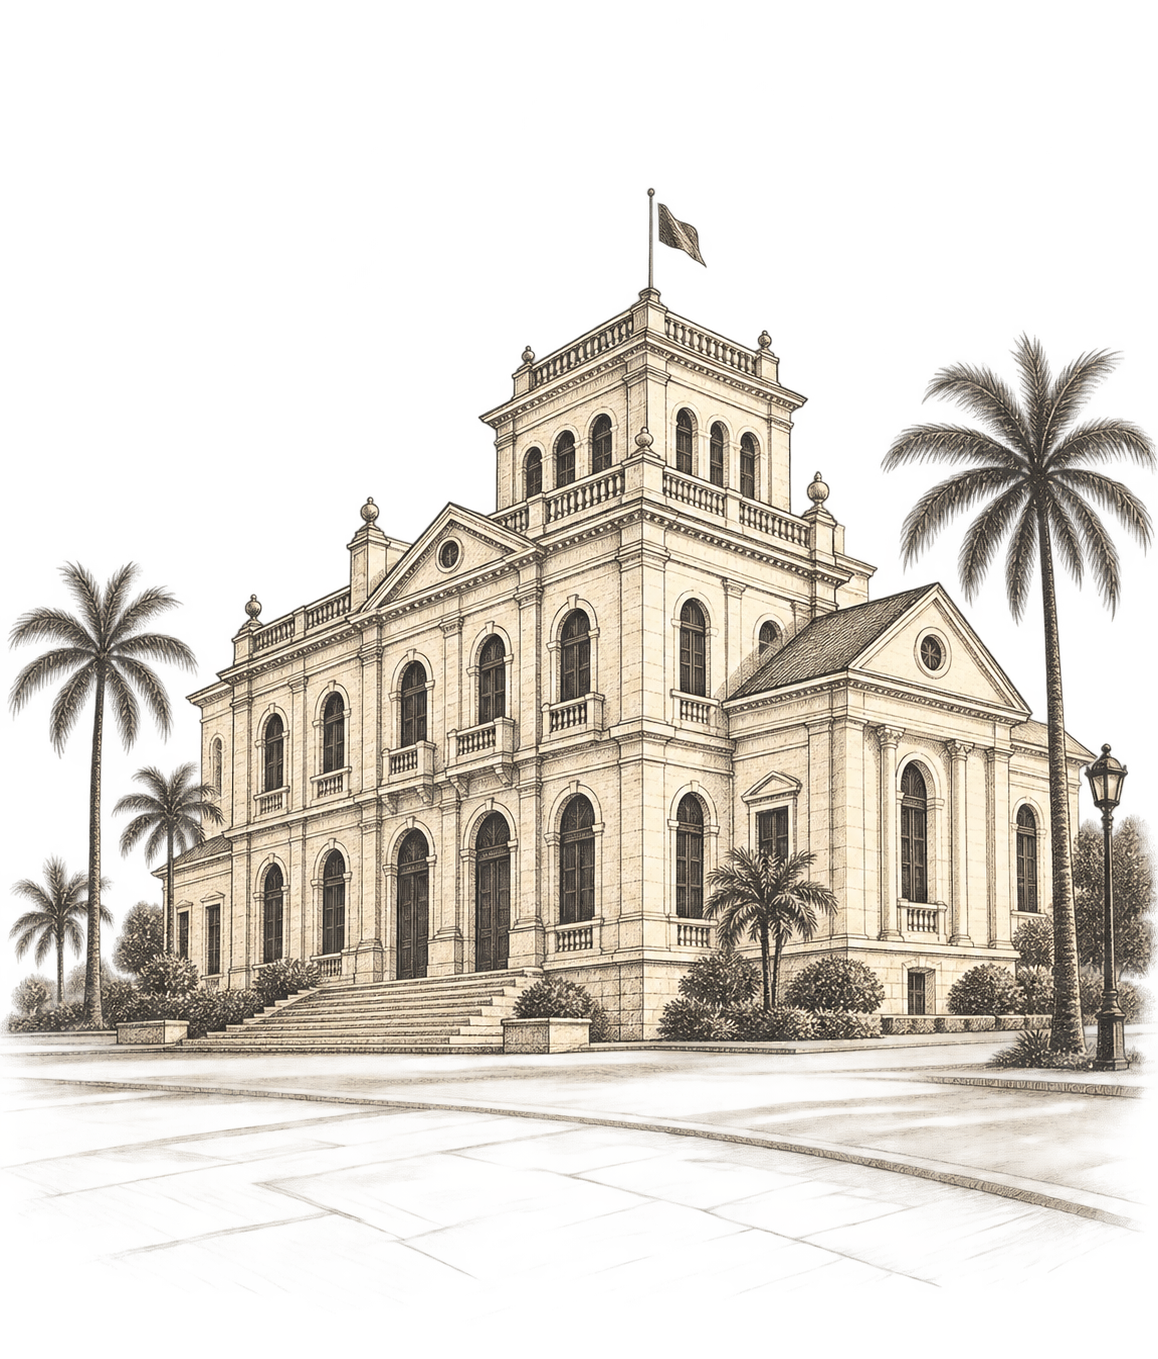
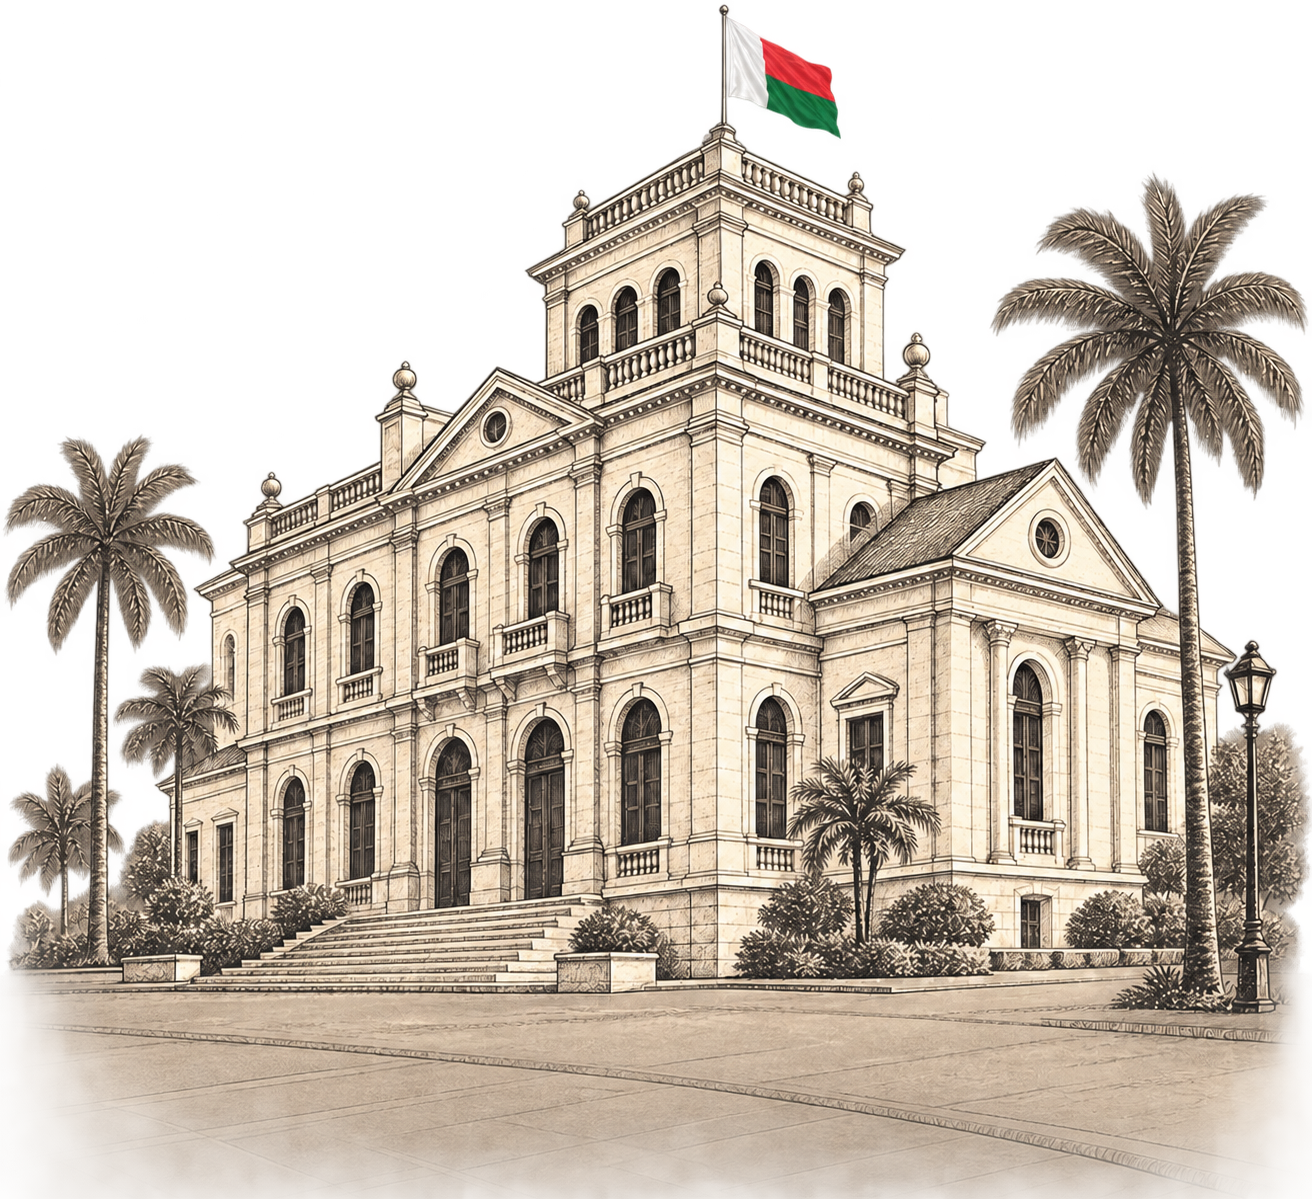
fix: corrections mineures — config, document service, pages
- Application.yml: ajustement de configuration
- DocumentService: corrections
- Login: améliorations i18n et design
- Dashboard/Taxpayers: ajustements mineurs
- Menu: image mise à jour

🤖 Generated with Codebuff

diff --git a/frontend/src/pages/Login.tsx b/frontend/src/pages/Login.tsx
@@ -126,25 +126,41 @@ export default function Login() {
             <h1 className="mt-2 text-2xl font-bold text-slate-900 dark:text-slate-100">{t('sidebar.brand')}</h1>
           </div>
 
-          {/* Language switcher on mobile */}
-          <div className="mb-6 flex justify-center gap-2 lg:hidden">
-            {languages.map((lang) => (
+          <div className="mb-6 flex justify-end lg:justify-between items-center gap-4">
+            <h2 className="text-2xl font-bold tracking-tight text-slate-900 dark:text-slate-100">{t('login.title')}</h2>
+            <div className="relative">
               <button
-                key={lang.code}
-                onClick={() => setLocale(lang.code)}
-                className={`flex items-center gap-2 rounded-xl px-4 py-2.5 text-sm font-medium transition ${
-                  locale === lang.code
-                    ? 'bg-brand-100 text-brand-700 shadow-sm ring-1 ring-brand-200 dark:bg-brand-900/30 dark:text-brand-400 dark:ring-brand-800'
-                    : 'text-slate-500 hover:bg-slate-100 dark:text-slate-400 dark:hover:bg-slate-700'
-                }`}
+                onClick={() => setLangOpen(!langOpen)}
+                className="flex items-center gap-1.5 rounded-xl px-3 py-2 text-sm font-medium text-slate-500 transition hover:bg-slate-100 hover:text-slate-800 dark:text-slate-400 dark:hover:bg-slate-700 dark:hover:text-slate-200"
+                aria-label={t('login.language')}
               >
-                <span className="text-xl leading-none">{lang.flag}</span>
-                <span>{lang.label}</span>
+                <Globe className="h-4 w-4" />
+                <span className="text-lg leading-none">{languages.find((l) => l.code === locale)?.flag}</span>
               </button>
-            ))}
+              {langOpen && (
+                <div className="absolute right-0 z-10 mt-2 w-48 animate-scale-in rounded-2xl border border-slate-200/80 bg-white shadow-popover dark:border-slate-700/50 dark:bg-slate-800">
+                  <div className="p-1.5">
+                    {languages.map((lang) => (
+                      <button
+                        key={lang.code}
+                        onClick={() => { setLocale(lang.code); setLangOpen(false) }}
+                        className={`flex w-full items-center gap-3 rounded-lg px-3 py-2.5 text-sm transition ${
+                          locale === lang.code
+                            ? 'bg-brand-50 font-semibold text-brand-700 dark:bg-brand-900/30 dark:text-brand-400'
+                            : 'text-slate-700 hover:bg-slate-100 dark:text-slate-300 dark:hover:bg-slate-700'
+                        }`}
+                      >
+                        <span className="text-xl leading-none">{lang.flag}</span>
+                        <span>{lang.label}</span>
+                        {locale === lang.code && <span className="ml-auto text-brand-500 dark:text-brand-400">✓</span>}
+                      </button>
+                    ))}
+                  </div>
+                </div>
+              )}
+            </div>
           </div>
 
-          <h2 className="text-2xl font-bold tracking-tight text-slate-900 dark:text-slate-100">{t('login.title')}</h2>
           <p className="mt-1 text-sm text-slate-500 dark:text-slate-400">{t('login.subtitle')}</p>
 
           <form onSubmit={handleSubmit(onSubmit)} className="mt-8 space-y-5" noValidate>

diff --git a/frontend/src/pages/Dashboard.tsx b/frontend/src/pages/Dashboard.tsx
@@ -772,7 +772,7 @@ function WelcomeBanner({
               <ChevronDown className={`h-4 w-4 transition-transform ${periodOpen ? 'rotate-180' : ''}`} />
             </button>
             {periodOpen && (
-              <div className="absolute right-0 z-[60] mt-2 w-64 overflow-hidden rounded-2xl border border-white/20 bg-white shadow-2xl">
+              <div className="absolute right-0 z-[60] mt-2 w-64 max-w-[calc(100vw-3rem)] overflow-hidden rounded-2xl border border-white/20 bg-white shadow-2xl">
                 <div className="px-4 py-3 border-b border-slate-100">
                   <p className="text-xs font-semibold uppercase tracking-wider text-slate-400 dark:text-slate-500">Sélectionner une période</p>
                 </div>
@@ -807,7 +807,7 @@ function WelcomeBanner({
               <ChevronDown className={`h-4 w-4 transition-transform ${dlOpen ? 'rotate-180' : ''}`} />
             </button>
             {dlOpen && (
-              <div className="absolute right-0 z-[60] mt-2 w-56 overflow-hidden rounded-2xl border border-slate-200 bg-white shadow-2xl">
+              <div className="absolute right-0 z-[60] mt-2 w-56 max-w-[calc(100vw-3rem)] overflow-hidden rounded-2xl border border-slate-200 bg-white shadow-2xl">
                 <div className="p-1.5">
                   <button
                     onClick={() => { onDownload(); setDlOpen(false) }}

diff --git a/frontend/src/pages/Taxpayers.tsx b/frontend/src/pages/Taxpayers.tsx
@@ -1142,7 +1142,7 @@ export default function Taxpayers() {
       {/* ── Taxpayer Profile Drawer ── */}
       {selectedTaxpayer !== null && (
         <div
-          className="fixed inset-0 z-50 bg-black/30"
+          className="fixed inset-0 z-50 bg-black/60"
           onClick={() => setSelectedTaxpayer(null)}
         >
           <div

diff --git a/backend/src/main/java/com/mnktax/document/service/DocumentService.java b/backend/src/main/java/com/mnktax/document/service/DocumentService.java
@@ -10,6 +10,8 @@ import com.mnktax.document.repository.DocumentRepository;
 import com.mnktax.taxpayer.entity.Taxpayer;
 import com.mnktax.taxpayer.repository.TaxpayerRepository;
 import jakarta.servlet.http.HttpServletRequest;
+import org.slf4j.Logger;
+import org.slf4j.LoggerFactory;
 import org.springframework.beans.factory.annotation.Value;
 import org.springframework.stereotype.Service;
 import org.springframework.transaction.annotation.Transactional;
@@ -24,6 +26,8 @@ import java.util.UUID;
 
 @Service
 public class DocumentService {
+
+    private static final Logger log = LoggerFactory.getLogger(DocumentService.class);
 
     private final DocumentRepository documentRepository;
     private final TaxpayerRepository taxpayerRepository;
@@ -91,7 +95,8 @@ public class DocumentService {
                 .orElseThrow(() -> new ResourceNotFoundException("Document", id));
         try {
             Files.deleteIfExists(Path.of(document.getFilePath()));
-        } catch (IOException ignored) {
+        } catch (IOException e) {
+            log.warn("Impossible de supprimer le fichier {}: {}", document.getFilePath(), e.getMessage());
         }
         documentRepository.delete(document);
         auditService.record("DELETE", "DOCUMENT", String.valueOf(id), null, null, http);
